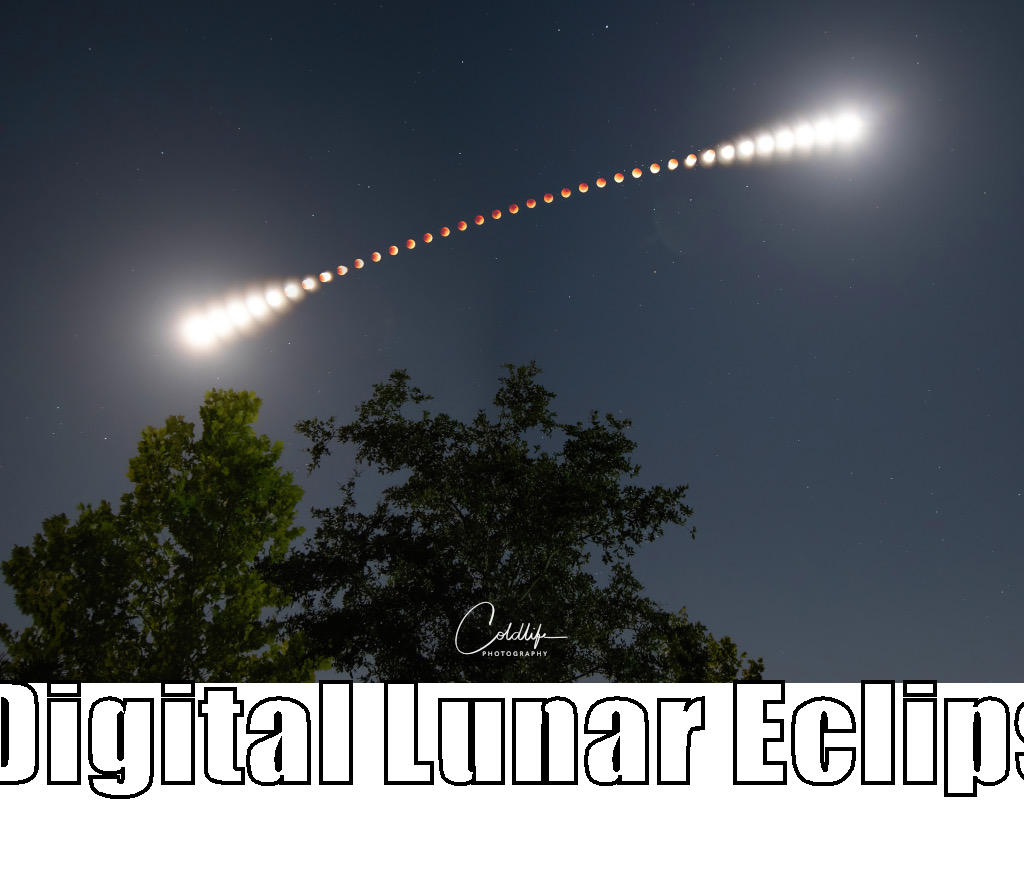
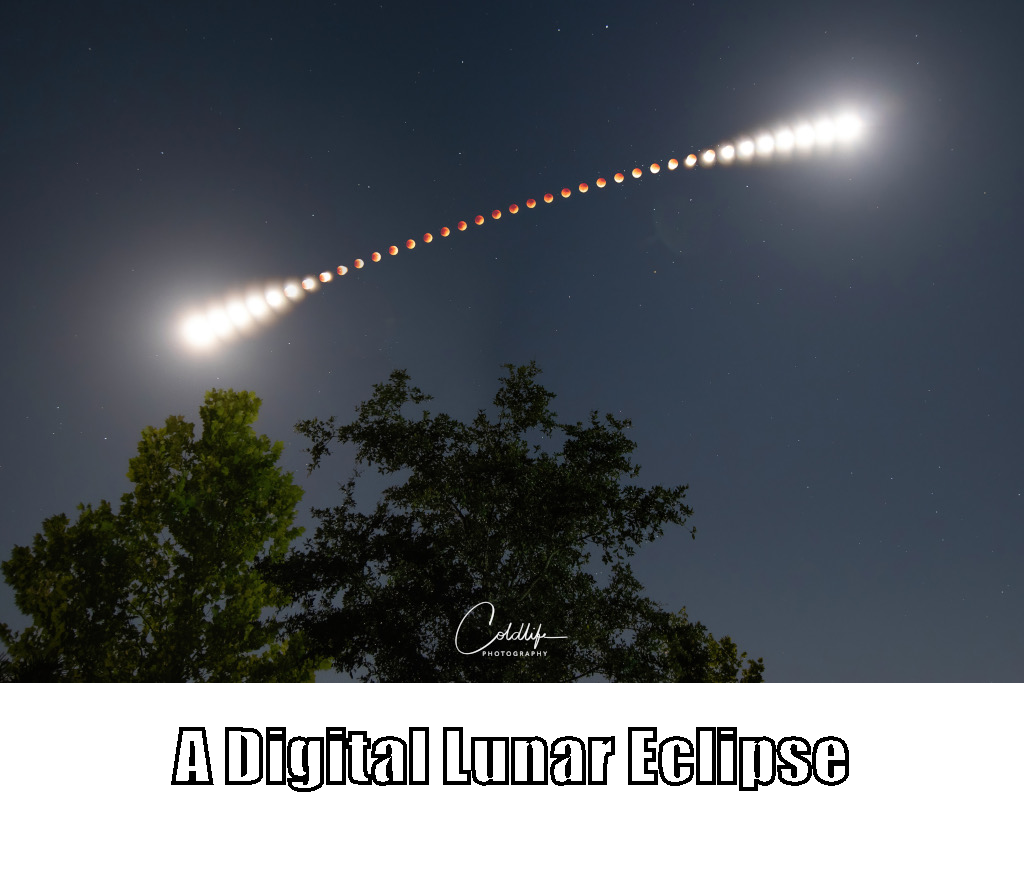
Aula 3 adicional

Changed region(s): [[0.0, 0.7644, 1.0, 0.9173]]

diff --git a/Stickers/src/App.java b/Stickers/src/App.java
@@ -6,11 +6,11 @@ public class App {
     public static void main(String[] args) throws Exception {
         // fazer uma conexão HTTP e importar a API
         
-        String urlConteudo = "https://api.nasa.gov/planetary/apod?api_key=3mZoDwnbRMyGoO95prxsrWovVrwv9L2mj9XCCr9G&start_date=2022-05-17&end_date=2022-05-21";
-        ExtratorDeConteudo extrator = new NasaExtrator();
+        // String urlConteudo = "https://api.nasa.gov/planetary/apod?api_key=3mZoDwnbRMyGoO95prxsrWovVrwv9L2mj9XCCr9G&start_date=2022-05-17&end_date=2022-05-21";
+        // ExtratorDeConteudo extrator = new NasaExtrator();
 
-        // String urlConteudo = "https://raw.githubusercontent.com/alura-cursos/imersao-java-2-api/main/TopMovies.json";
-        // ExtratorDeConteudo extrator = new IMDBExtrator();
+        String urlConteudo = "https://raw.githubusercontent.com/alura-cursos/imersao-java-2-api/main/TopMovies.json";
+        ExtratorDeConteudo extrator = new IMDBExtrator();
 
         ClienteHTTP http = new ClienteHTTP();
         String json = http.buscaDados(urlConteudo);

diff --git a/Stickers/src/StickerGenerator.java b/Stickers/src/StickerGenerator.java
@@ -32,7 +32,7 @@ public class StickerGenerator {
         graphics.drawImage(imagemOriginal, 0, 0, null);
 
         // configurar a fonte de texto
-        Font fonte = new Font("Impact", Font.BOLD, 128);
+        Font fonte = new Font("Impact", Font.BOLD, (largura/15));
         graphics.setColor(Color.WHITE);
         graphics.setFont(fonte);
 
